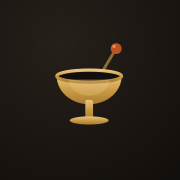
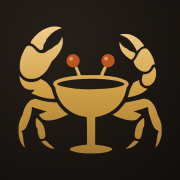
Add files via upload

Changed region(s): [[0.0833, 0.1389, 0.9167, 0.8611]]

diff --git a/index.html b/index.html
@@ -6,9 +6,10 @@
 <title>The Codex</title>
   <link rel="icon" href="favicon.svg" type="image/svg+xml">
   <link rel="icon" href="favicon-32.png" sizes="32x32" type="image/png">
+  <link rel="icon" href="favicon-16.png" sizes="16x16" type="image/png">
   <link rel="apple-touch-icon" href="apple-touch-icon.png">
   <link rel="manifest" href="site.webmanifest">
-  <meta name="theme-color" content="#140f0c">
+  <meta name="theme-color" content="#130f0c">
 
 <link rel="preconnect" href="https://fonts.googleapis.com">
 <link rel="preconnect" href="https://fonts.gstatic.com" crossorigin>
@@ -29,8 +30,28 @@
   body{background:var(--bg);color:var(--ink);font-family:var(--sans);line-height:1.45;-webkit-font-smoothing:antialiased;padding-bottom:40px;overflow-x:hidden}
   body::before{content:"";position:fixed;inset:0;pointer-events:none;z-index:0;background:radial-gradient(120% 80% at 100% 0%,rgba(199,154,75,.07),transparent 60%),radial-gradient(80% 60% at 0% 100%,rgba(177,72,58,.06),transparent 60%)}
   .wrap{position:relative;z-index:1;max-width:520px;margin:0 auto;padding:0 18px}
-  header{padding:24px 0 12px}
-  .eyebrow{font-family:var(--mono);font-size:11px;letter-spacing:.32em;text-transform:uppercase;color:var(--brass);display:flex;align-items:center;gap:9px}
+  header{padding:24px 0 12px;position:relative;overflow:hidden;isolation:isolate}
+  /* Cancer over the melted crab, two layers so each tunes independently.
+     POSITION: asterism anchored by its gamma/delta midpoint, 85% of the way back
+     along the crab's eyes -> carapace-centre axis, then the CRAB alone nudged +44px
+     right (in source px) to close the dead margin under the beta arm. The asterism
+     did not move, so gamma/delta still sit behind the eyestalks.
+     WEIGHT: stars .38 vs crab .42 -- near-equal so the asterism reads as part of
+     the artwork rather than sitting on top of it.
+     Canvas aspect 1.1429; width and height must stay in step or the two
+     layers drift out of register. */
+  .header-art{position:absolute;right:2px;top:2px;width:130px;height:114px;pointer-events:none;z-index:0}
+  .header-art .ha-crab{position:absolute;left:0.92%;top:1.05%;width:88.97%;height:97.89%;opacity:.42}
+  /* Not var(--brass) (#c79a4b): at this opacity brass read muddy. Bright gold stays
+     crisp and the low opacity does the quietening. */
+  .header-art .ha-stars{position:absolute;inset:0;width:100%;height:100%;color:#e8c574;opacity:.38}
+  header>*:not(.header-art){position:relative;z-index:1}
+  .empty svg{color:var(--faint);margin-bottom:4px}
+  /* padding-right reserves the constellation's column so the ::after hairline
+     stops before it instead of striking through the stars. Keep in step with
+     .header-art width (130 + 2 inset + 12 breathing room). */
+  .eyebrow{font-family:var(--mono);font-size:11px;letter-spacing:.32em;text-transform:uppercase;color:var(--brass);display:flex;align-items:center;gap:9px;padding-right:144px}
+  @media(max-width:620px){.header-art{width:104px;height:91px;right:0;top:2px}.header-art .ha-crab{opacity:.40}.header-art .ha-stars{opacity:.46}.eyebrow{padding-right:116px}}
   .eyebrow::after{content:"";height:1px;flex:1;background:var(--line)}
   h1{font-family:var(--display);font-weight:900;font-size:40px;line-height:.98;letter-spacing:-.015em;margin:8px 0 2px}
   h1 em{font-style:italic;font-weight:400;color:var(--brass)}
@@ -176,8 +197,13 @@
 </style>
 </head>
 <body>
+<svg width="0" height="0" style="position:absolute;overflow:hidden" aria-hidden="true" focusable="false"><defs><symbol id="crabglum" viewBox="0 0 40 28"><g fill="none" stroke="currentColor" stroke-width="1.3" stroke-linecap="round" stroke-linejoin="round"><ellipse cx="20" cy="16" rx="8" ry="5.5"/><path d="M16.5 10.8 16 9.4"/><path d="M14.6 7.2 16 9.4 17.4 7.4"/><path d="M23.5 10.8 24 9.4"/><path d="M22.6 7.4 24 9.4 25.4 7.2"/><path d="M12 13.6C9 13.1 7 11.6 5.6 9.6"/><path d="M5.6 9.6 3 8.2"/><path d="M5.6 9.6 3.8 11.9"/><path d="M28 13.6c3-.5 5-2 6.4-4"/><path d="M34.4 9.6 37 8.2"/><path d="M34.4 9.6 36.2 11.9"/><path d="M12.6 18.9l-3.5 1.7M14 20.2l-2.6 2.8M17.4 21.6l-1.6 3.2M22.6 21.6l1.6 3.2M26 20.2l2.6 2.8M27.4 18.9l3.5 1.7"/></g></symbol></defs></svg>
 <div class="wrap">
   <header>
+    <div class="header-art" aria-hidden="true">
+      <img class="ha-crab" src="crab-melted.png" alt="">
+      <svg class="ha-stars" viewBox="0 0 1086 950" focusable="false"><line x1="55.7" y1="272.1" x2="378.3" y2="413.5" stroke="currentColor" stroke-width="8.58" opacity=".9" stroke-linecap="round"/><line x1="271.0" y1="47.2" x2="378.3" y2="413.5" stroke="currentColor" stroke-width="8.58" opacity=".9" stroke-linecap="round"/><line x1="378.3" y1="413.5" x2="508.2" y2="507.4" stroke="currentColor" stroke-width="8.58" opacity=".9" stroke-linecap="round"/><line x1="508.2" y1="507.4" x2="691.5" y2="794.1" stroke="currentColor" stroke-width="8.58" opacity=".9" stroke-linecap="round"/><line x1="508.2" y1="507.4" x2="1040.9" y2="445.3" stroke="currentColor" stroke-width="8.58" opacity=".9" stroke-linecap="round"/><circle cx="458.7" cy="417.5" r="60.2" fill="currentColor" opacity=".16"/><circle cx="452.1" cy="429.2" r="3.84" fill="currentColor" opacity="0.72"/><circle cx="436.5" cy="412.9" r="2.39" fill="currentColor" opacity="0.85"/><circle cx="482.7" cy="422.7" r="2.42" fill="currentColor" opacity="0.73"/><circle cx="428.2" cy="431.5" r="2.55" fill="currentColor" opacity="0.77"/><circle cx="433.2" cy="393.8" r="3.66" fill="currentColor" opacity="0.82"/><circle cx="466.7" cy="416.4" r="4.35" fill="currentColor" opacity="0.79"/><circle cx="466.6" cy="426.6" r="3.00" fill="currentColor" opacity="0.94"/><circle cx="470.7" cy="440.9" r="3.81" fill="currentColor" opacity="0.81"/><circle cx="449.7" cy="415.0" r="2.39" fill="currentColor" opacity="0.76"/><circle cx="448.2" cy="397.4" r="3.02" fill="currentColor" opacity="0.88"/><circle cx="439.0" cy="422.8" r="4.20" fill="currentColor" opacity="0.91"/><circle cx="459.7" cy="443.1" r="3.54" fill="currentColor" opacity="0.96"/><circle cx="456.1" cy="399.4" r="4.65" fill="currentColor" opacity="0.74"/><circle cx="430.2" cy="431.9" r="2.62" fill="currentColor" opacity="0.85"/><circle cx="488.5" cy="424.2" r="4.12" fill="currentColor" opacity="0.87"/><circle cx="473.6" cy="404.1" r="3.95" fill="currentColor" opacity="0.88"/><circle cx="436.4" cy="406.5" r="4.31" fill="currentColor" opacity="0.98"/><circle cx="428.4" cy="421.9" r="2.40" fill="currentColor" opacity="0.91"/><circle cx="436.1" cy="390.5" r="4.26" fill="currentColor" opacity="0.79"/><circle cx="435.5" cy="435.7" r="2.30" fill="currentColor" opacity="0.84"/><circle cx="465.0" cy="427.5" r="2.39" fill="currentColor" opacity="0.93"/><circle cx="471.5" cy="429.7" r="3.21" fill="currentColor" opacity="0.96"/><circle cx="55.7" cy="272.1" r="27.9" fill="currentColor" opacity=".17"/><circle cx="55.7" cy="272.1" r="9.31" fill="currentColor"/><circle cx="271.0" cy="47.2" r="18.4" fill="currentColor" opacity=".17"/><circle cx="271.0" cy="47.2" r="6.13" fill="currentColor"/><circle cx="378.3" cy="413.5" r="18.9" fill="currentColor" opacity=".17"/><circle cx="378.3" cy="413.5" r="6.30" fill="currentColor"/><circle cx="508.2" cy="507.4" r="29.0" fill="currentColor" opacity=".17"/><circle cx="508.2" cy="507.4" r="9.68" fill="currentColor"/><circle cx="691.5" cy="794.1" r="24.5" fill="currentColor" opacity=".17"/><circle cx="691.5" cy="794.1" r="8.18" fill="currentColor"/><circle cx="1040.9" cy="445.3" r="34.8" fill="currentColor" opacity=".17"/><circle cx="1040.9" cy="445.3" r="11.61" fill="currentColor"/></svg>
+    </div>
     <div class="eyebrow">Cocktail Codex</div>
     <h1>What'll it <em>be?</em></h1>
     <p class="tagline">Search the collection by name, spirit, or mood — or tell it what's on your shelf.</p>
@@ -388,7 +414,7 @@ function renderBrowse(){
   const noFilters = !act.length && !query;
   const rows = noFilters ? shuffledC.filter(matchB) : C.filter(matchB);
   document.getElementById('countLine').innerHTML=`<b>${rows.length}</b> ${rows.length===1?'recipe':'recipes'}`+(noFilters?` <button class="shufbtn" onclick="reshuffleHome()">\u{1F3B2} shuffle</button>`:'');
-  if(!rows.length){list.innerHTML=`<div class="empty"><b>Nothing matches</b>Loosen a filter and try again.</div>`;return;}
+  if(!rows.length){list.innerHTML=`<div class="empty"><svg width="52" height="37" viewBox="0 0 40 28" aria-hidden="true"><use href="#crabglum"/></svg><b>Nothing matches</b>Loosen a filter and try again.</div>`;return;}
   rows.slice(0,300).forEach(d=>list.appendChild(cardEl(d)));
   if(rows.length>300){const m=document.createElement('div');m.className='barhint';m.style.textAlign='center';m.textContent=noFilters?`A random 300 of ${rows.length} — tap \u{1F3B2} to reshuffle, or search/filter for a specific drink.`:`Showing first 300 of ${rows.length} — refine to see more.`;list.appendChild(m);}
 }
@@ -437,7 +463,7 @@ function renderBar(){
       const badge=canMake?`<span class="status ok">Ready</span>`:(miss.length===1?`<span class="status one">Need ${miss[0]}</span>`:statusPips(d));
       rc.appendChild(cardEl(d,{cls:canMake?'makeable':(miss.length===1?'away':''),badge}));
     });
-    if(!rows.length) rc.innerHTML=`<div class="empty"><b>No match</b>Try removing an ingredient from your selection.</div>`;
+    if(!rows.length) rc.innerHTML=`<div class="empty"><svg width="52" height="37" viewBox="0 0 40 28" aria-hidden="true"><use href="#crabglum"/></svg><b>No match</b>Try removing an ingredient from your selection.</div>`;
   }
   // palette
   const g=document.getElementById('barGrid'); g.innerHTML='';

diff --git a/menu.html b/menu.html
@@ -6,9 +6,10 @@
 <title>The Codex — Menu Builder</title>
   <link rel="icon" href="favicon.svg" type="image/svg+xml">
   <link rel="icon" href="favicon-32.png" sizes="32x32" type="image/png">
+  <link rel="icon" href="favicon-16.png" sizes="16x16" type="image/png">
   <link rel="apple-touch-icon" href="apple-touch-icon.png">
   <link rel="manifest" href="site.webmanifest">
-  <meta name="theme-color" content="#140f0c">
+  <meta name="theme-color" content="#130f0c">
 
 <link rel="preconnect" href="https://fonts.googleapis.com">
 <link rel="preconnect" href="https://fonts.gstatic.com" crossorigin>
